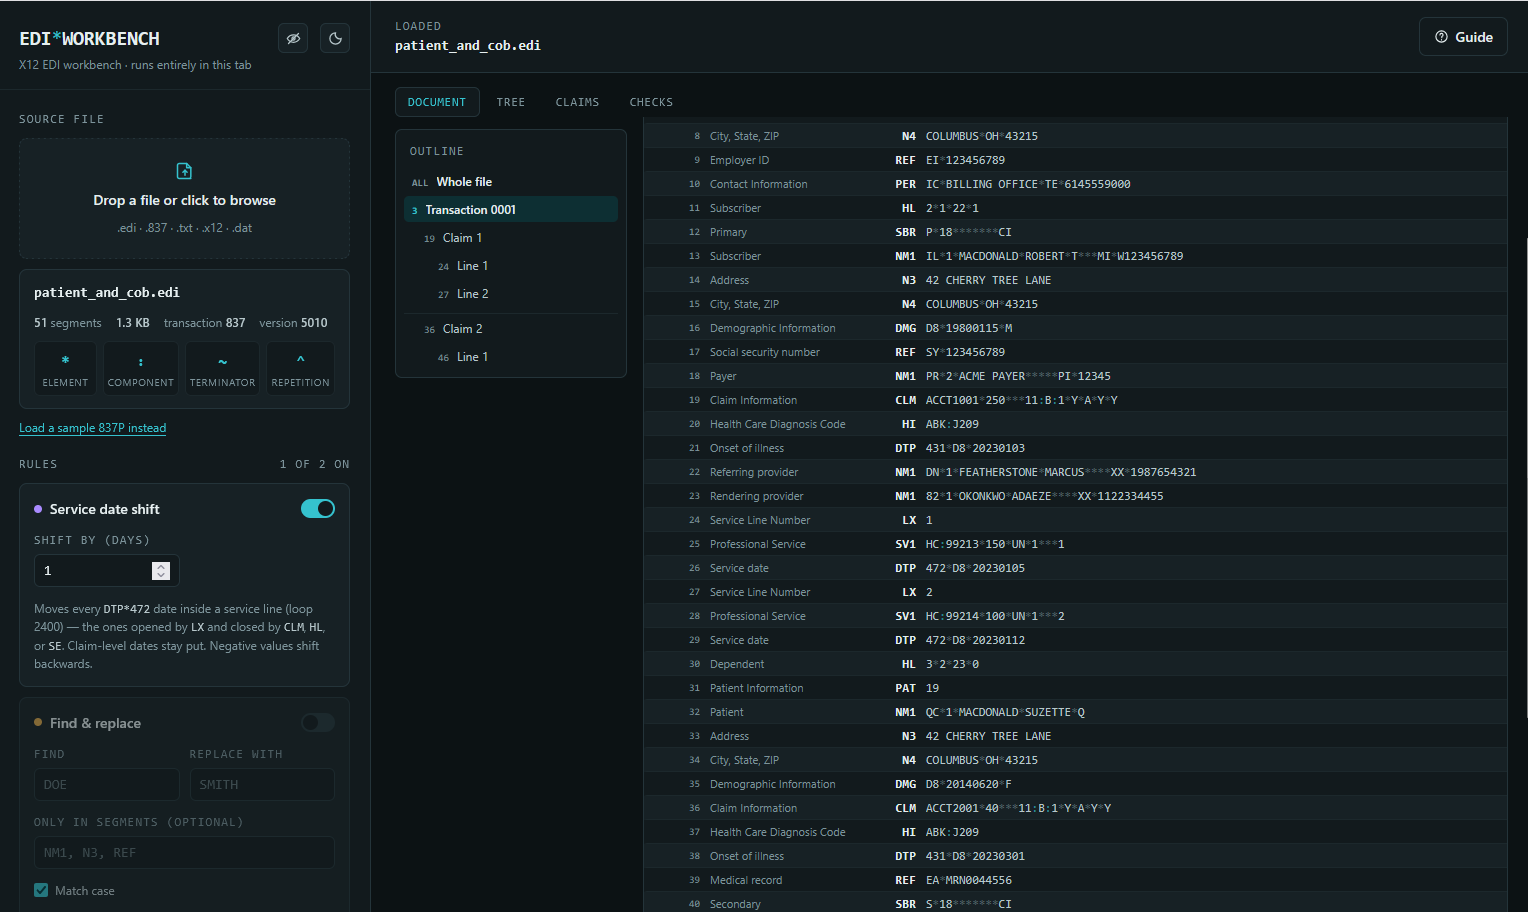
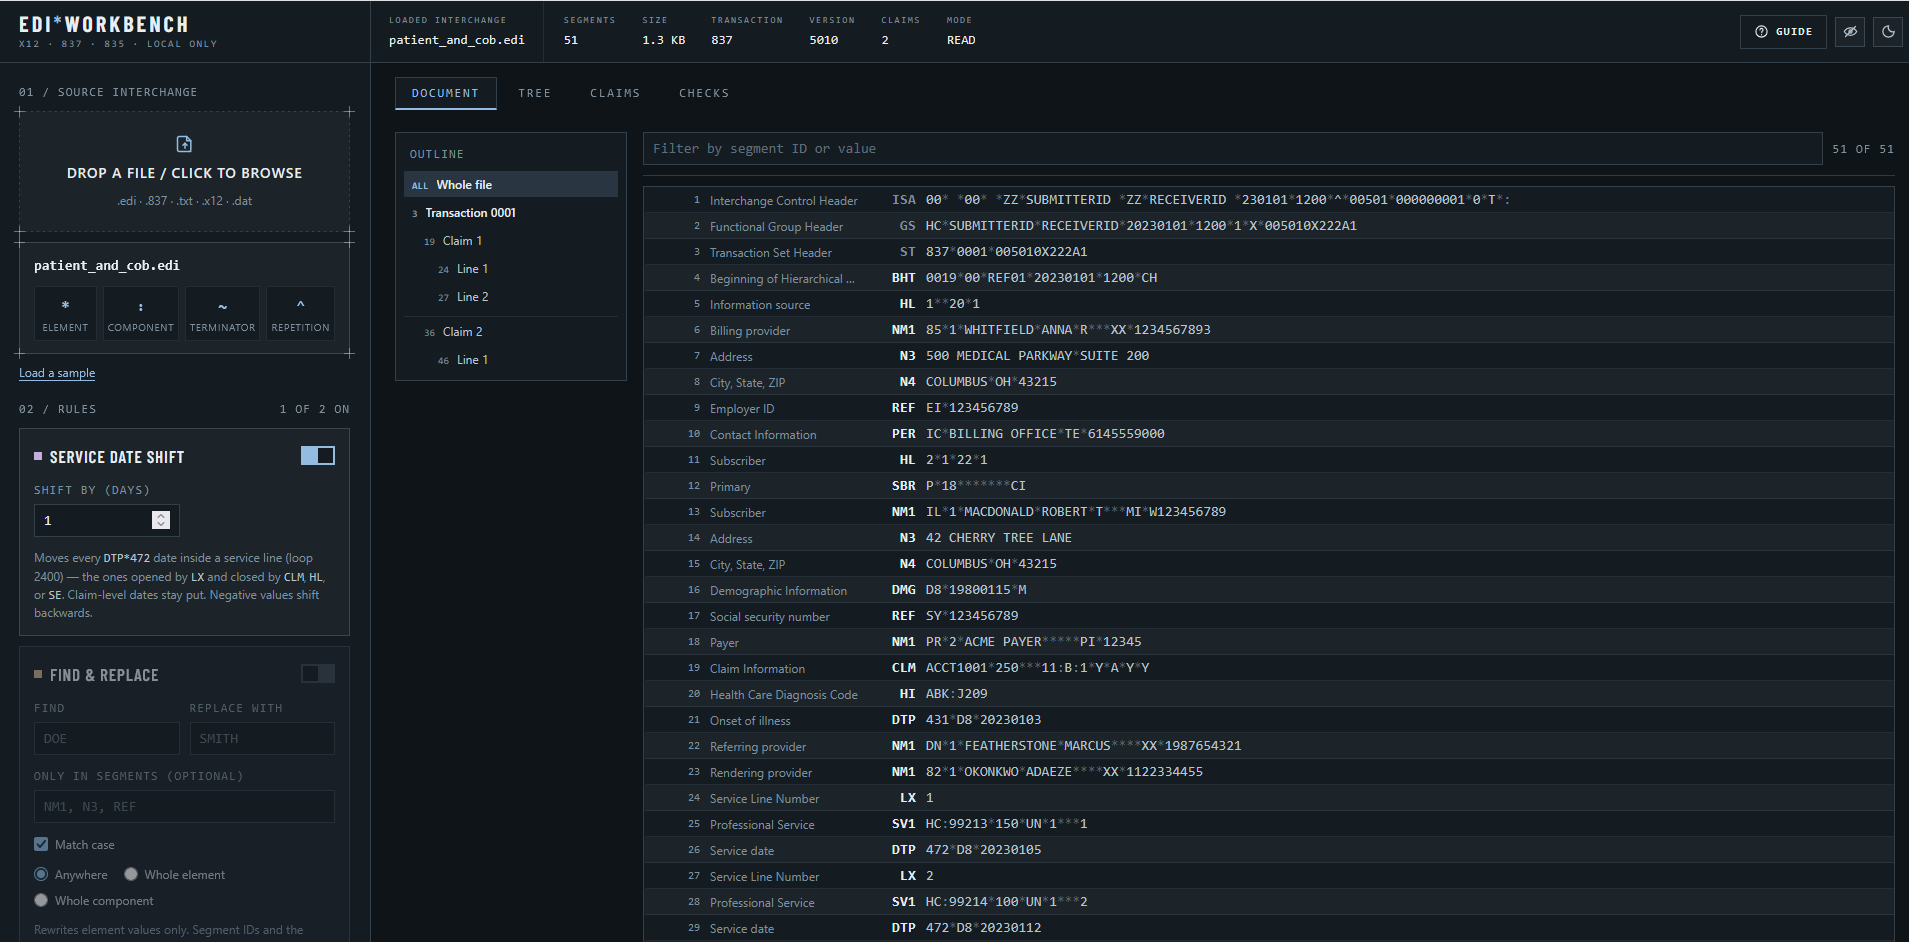
docs: retake the README screenshots on the v1.1.0 UI
The four screenshots still showed the pre-redesign interface: none of them
had the new masthead or the readout strip. Retaken against the same sample
files so the existing alt text still describes what is on screen.

Two things changed beyond the styling:

- The Claims table was clipped on the right in the old capture, cutting off
  the claim total column. It now fits, so the alt text gains that column.
- The old Tree capture reported cob_loops.edi as 51 segments / 1.3 KB. The
  file is 44 segments / 1,244 bytes and has never been edited; those were
  the figures for patient_and_cob.edi, loaded before it. The readout went
  stale on load and the filename did not. Fixed by the load path work in
  #5, and the new capture reads correctly.

diff --git a/README.md b/README.md
@@ -78,7 +78,7 @@ service line — and a diagnosis composite expanded into its parts.](docs/images
 
 ![The Claims tab, showing two claims across three service lines as a table: claim number,
 patient, line, service date, procedure, units, charge, diagnoses, place of service,
-billing provider and payer.](docs/images/claims-tab.png)
+billing provider, payer and claim total.](docs/images/claims-tab.png)
 
 *The Claims tab, one row per service line. The subscriber's claim has two lines; the
 dependent's has one.*
